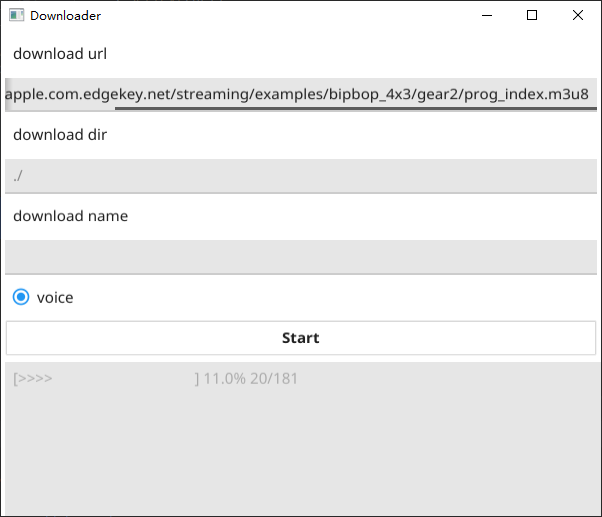
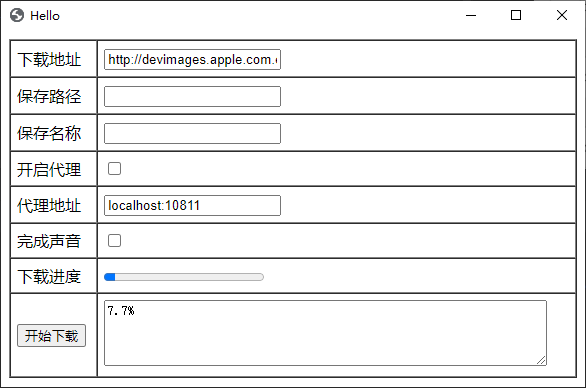
优化界面,简化代码

diff --git a/index.html b/index.html
@@ -2,7 +2,7 @@
 <html>
 <meta http-equiv="Content-Type" content="text/html;; charset=utf-8" />
 <head>
-    <title>Hello</title>
+    <title>在线视频下载</title>
     <link rel="shortcut icon" href="/ico.jpg" >
 </head>
 
@@ -11,7 +11,7 @@
 <table border="1px" width="100%" height="80%" cellpadding="6px" cellspacing="0">
     <tr>
         <td>下载地址</td>
-        <td><input id="download_addr" type="text" value=""></input></td>
+        <td><textarea id="download_addr" rows="3" cols="60" value=""></textarea></td>
     </tr>
     <tr>
         <td>保存路径</td>
@@ -39,7 +39,7 @@
     </tr>
     <tr>
         <td><input id="download" type="button" onclick="run()" readonly="true" value="开始下载"></input></td>
-        <td><textarea id="log" rows="4" cols="60" readonly="true" value=""></textarea></td>
+        <td><textarea id="log" rows="5" cols="60" readonly="true" value=""></textarea></td>
     </tr>
 
 </table>

diff --git a/gui/gui.go b/gui/gui.go
@@ -15,7 +15,6 @@ import (
 	"github.com/injoyai/goutil/oss"
 	"github.com/injoyai/goutil/other/notice/voice"
 	"github.com/injoyai/goutil/str"
-	"github.com/injoyai/logs"
 	"github.com/injoyai/lorca"
 	"github.com/tebeka/selenium"
 	"net/url"
@@ -36,16 +35,19 @@ var cfg = func() *cache.File {
 func New() error {
 	return lorca.Run(&lorca.Config{
 		Width:  600,
-		Height: 395,
+		Height: 442,
 		Html:   "./index.html",
 	}, func(app lorca.APP) error {
 
 		app.SetValueByID("download_dir", cfg.GetString("download_dir", "./"))
 		app.Eval(fmt.Sprintf("document.getElementById('proxy_addr').checked=%v", cfg.GetBool("proxy_addr")))
 		app.SetValueByID("proxy_addr", cfg.GetString("proxy_addr", "localhost:1081"))
-		app.Eval(fmt.Sprintf("document.getElementById('done_voice').checked=%v", cfg.GetBool("done_voice")))
+		app.Eval(fmt.Sprintf("document.getElementById('done_voice').checked=%v", cfg.GetBool("done_voice", true)))
 
 		enable := chans.NewRerun(func(ctx context.Context) {
+
+			app.SetValueByID("log", "")
+
 			downloadAddr := strings.TrimSpace(conv.String(app.GetValueByID("download_addr")))
 			downloadDir := conv.String(app.GetValueByID("download_dir"))
 			downloadName := conv.String(app.GetValueByID("download_name"))
@@ -53,7 +55,7 @@ func New() error {
 			proxyAddr := conv.String(app.GetValueByID("proxy_addr"))
 			doneVoice := app.Eval("document.getElementById('done_voice').checked").Bool()
 
-			logs.PrintErr(func() (err error) {
+			func() (err error) {
 				if proxyUse {
 					http.DefaultClient.SetProxy(proxyAddr)
 				} else {
@@ -150,7 +152,7 @@ func New() error {
 					}(i, url, downloadName)
 				}
 				return nil
-			}())
+			}()
 		})
 
 		return app.Bind("run", func() {

diff --git a/README.md b/README.md
@@ -1,9 +1,7 @@
 ## m3u8资源下载工具
 * 为了减小体积,使用了upx进行压缩,可能会报毒
-* 尽量用的原生写的,代码会相对比较多
-* 提供图形界面,使用fyne.io/fyne/v2(https://fyne.io/fyne/v2)实现,不能显示中文
+* 提供图形界面,使用lorca(https://github.com/zserge/lorca)实现,需要Chrome
 * 目前只支持m3u8资源下载
-* 如果不需要GUI,可以直接作为包使用, download.New()
 * 如果安装了Chrome,工具会下载chromedriver.exe到根目录,提供爬虫功能,能爬取普通网页(支持js,动态加载,iframe)的所有m3u8资源
 * 下载完成后,默认后缀为.ts,修改成mp4也可
 * 显示下载进度,下载用时
@@ -19,8 +17,8 @@
 
 ## 使用说明
 * [版本下载.windows](https://github.com/injoyai/downloader/releases )
-* download url 是下载地址(例 http://devimages.apple.com.edgekey.net/streaming/examples/bipbop_4x3/gear2/prog_index.m3u8)
-* 或者普通网页地址(例 https://www.wangfei.tv/vodplay/302601-3-1.html)
-* download name 是重命名文件(可选,xx,xx.ts,xx.mp4) ,存在相同名字文件会被覆盖
-* 等待进度条完成,或显示Download success Used xxx ,则完成下载
+* 下载地址(例 http://devimages.apple.com.edgekey.net/streaming/examples/bipbop_4x3/gear2/prog_index.m3u8)
+  或者普通网页地址(例 https://www.wangfei.tv/vodplay/302601-3-1.html)
+* 保存名称可选,重命名文件(可选,xx,xx.ts,xx.mp4) ,存在相同名字文件会被覆盖
+* 等待进度条完成,或显示下载成功xxx ,则完成下载
   ![](doc/downloader.png)
